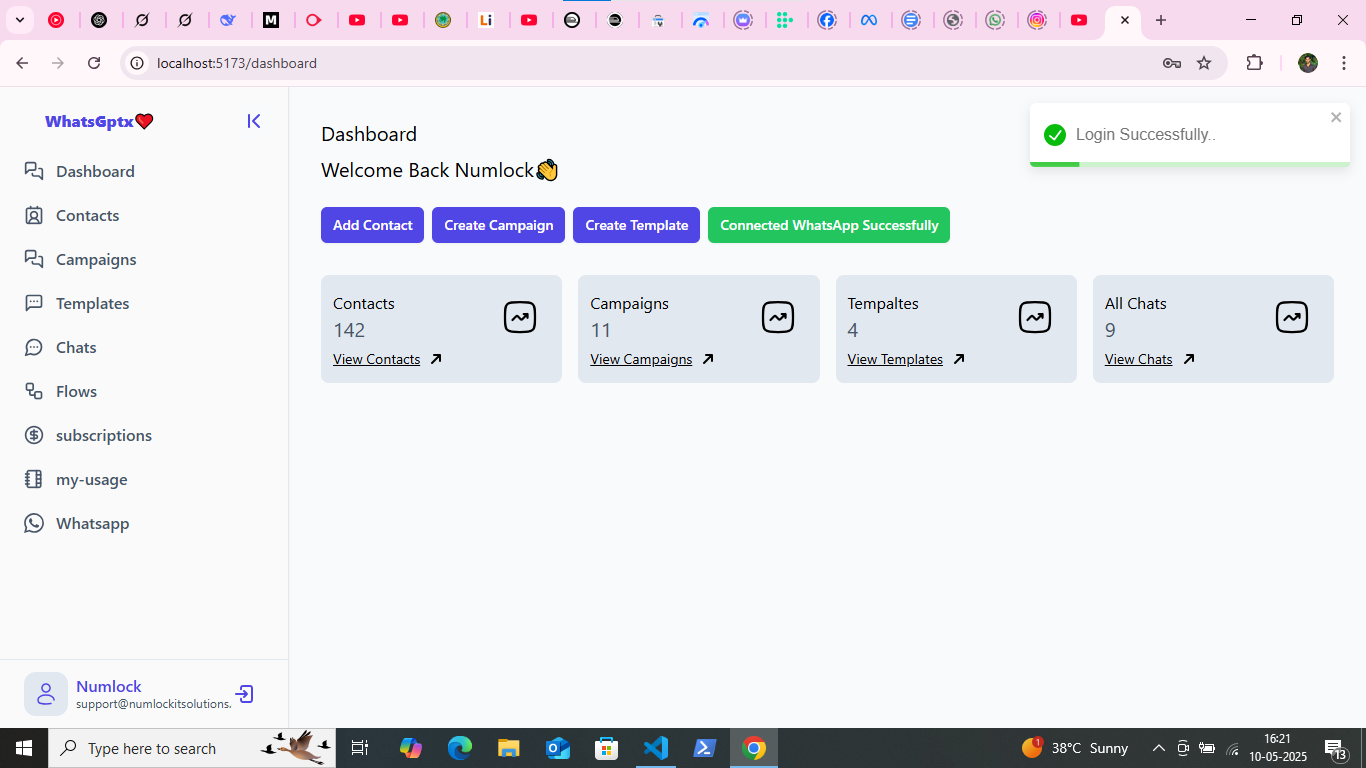
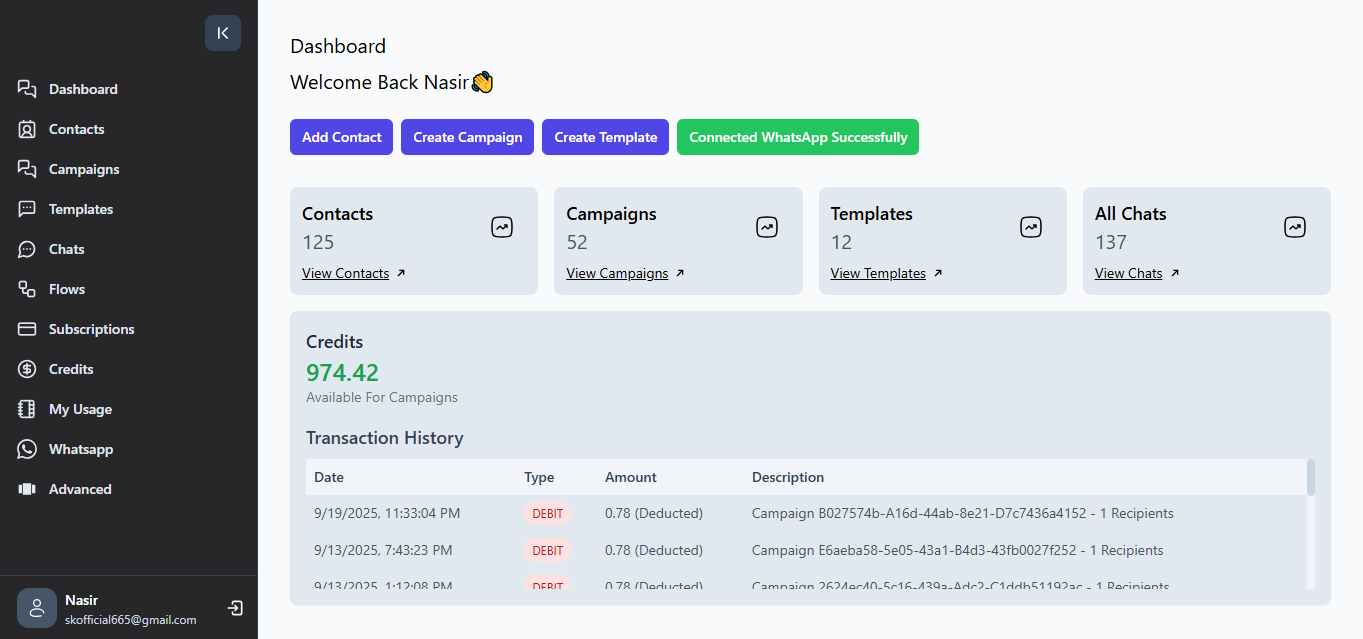
ui chnges

diff --git a/src/components/LandingPage/LandingPage.jsx b/src/components/LandingPage/LandingPage.jsx
@@ -83,7 +83,7 @@ export default function LandingPage() {
             <div className="flex items-center justify-between w-full xl:w-auto mb-2 xl:mb-0">
               <a className="flex items-center w-[7rem] h-5 sm:w-[12rem]" href="/">
               <img src={assest.logo} alt="" />
-                {/* <span className="text-2xl font-bold bg-gradient-to-r from-green-600 to-emerald-500 bg-clip-text text-transparent">Numlockitsolutions</span> */}
+                {/* <span className="text-2xl font-bold bg-gradient-to-r from-green-600 to-emerald-500 bg-clip-text text-transparent">WhatsappGptx</span> */}
               </a>
               <div className="flex xl:hidden items-center gap-2">
                 <button 
@@ -235,10 +235,10 @@ export default function LandingPage() {
             <div className="lg:w-1/2 text-center lg:text-left">
               <p className="text-sm font-semibold text-green-600 tracking-wide uppercase mb-4">AI-POWERED WHATSAPP MARKETING</p>
               <h1 className="text-2xl md:text-3xl lg:text-3xl font-bold mb-6">
-                <span className="block bg-clip-text text-transparent bg-gradient-to-r from-green-600 to-emerald-500 pb-[5px]">Advanced WhatsApp Automation with Numlockitsolutions</span>
+                <span className="block bg-clip-text text-transparent bg-gradient-to-r from-green-600 to-emerald-500 pb-[5px]">Advanced WhatsApp Automation with WhatsappGptx</span>
               </h1>
               <p className="text-lg md:text-xl text-gray-600 mb-8 max-w-2xl mx-auto lg:mx-0">
-                Transform your business communications with Numlockitsolutions's powerful AI-driven WhatsApp Business API solutions.
+                Transform your business communications with WhatsappGptx's powerful AI-driven WhatsApp Business API solutions.
               </p>
               <div className="flex flex-col sm:flex-row gap-4 justify-center lg:justify-start">
                 <a href="/register" className="bg-gradient-to-r from-green-600 to-emerald-500 text-white px-6 py-3 rounded-full text-lg font-semibold hover:opacity-90 transition-opacity inline-flex items-center justify-center">
@@ -263,7 +263,7 @@ export default function LandingPage() {
                 <div className="relative">
                   <img 
                     src={assest.Dashboard}
-                    alt="Numlockitsolutions Dashboard Preview" 
+                    alt="WhatsappGptx Dashboard Preview" 
                     className="relative z-10 rounded-xl shadow-xl border border-gray-200" 
                   />
                 </div>
@@ -299,7 +299,7 @@ export default function LandingPage() {
       </section>
           
       {/* Price Section */}
-      <section id='pricing'>
+      <section id='pricing' className='relative bg-gradient-to-b from-green-50 to-white py-10'>
         <PricingPlans/>
       </section>
 
@@ -321,7 +321,7 @@ export default function LandingPage() {
                 <span className="text-2xl font-bold text-orange-500">+</span>
               </div>
               <h3 className="text-sm font-semibold text-gray-500 mt-2">BUSINESSES</h3>
-              <p className="text-gray-600 mt-2 max-w-xs mx-auto">Trust Numlockitsolutions to grow their customer engagement</p>
+              <p className="text-gray-600 mt-2 max-w-xs mx-auto">Trust WhatsappGptxto grow their customer engagement</p>
             </div>
             <div className="text-center">
               <div className="flex items-center justify-center">
@@ -342,7 +342,7 @@ export default function LandingPage() {
         <div className="container mx-auto px-4">
           <div className="text-center mb-12">
             <h2 className="text-3xl font-bold text-gray-900">Native Integrations</h2>
-            <p className="text-gray-600 mt-4 max-w-2xl mx-auto">Connect Numlockitsolutions with your favorite tools and services</p>
+            <p className="text-gray-600 mt-4 max-w-2xl mx-auto">Connect WhatsappGptxwith your favorite tools and services</p>
           </div>
           
           <div className="grid grid-cols-2 md:grid-cols-4 gap-8 items-center justify-center">
@@ -384,7 +384,7 @@ export default function LandingPage() {
                     <h3 className="text-3xl font-bold text-gray-900">Multi-Agent Chat Inbox</h3>
                   </div>
                   <p className="text-lg text-gray-700 leading-relaxed">
-                    With Numlockitsolutions Connect CRM, you can enable a multi-agent chat system for seamless sales and support. Multiple agents can respond to incoming messages with access control and performance monitoring.
+                    With WhatsappGptxConnect CRM, you can enable a multi-agent chat system for seamless sales and support. Multiple agents can respond to incoming messages with access control and performance monitoring.
                   </p>
                   <ul className="list-disc pl-4 space-y-2">
                     <li className="text-lg text-gray-700">WhatsApp-like interface for seamless communication</li>
@@ -451,7 +451,7 @@ export default function LandingPage() {
           <div className="flex flex-col md:flex-row items-center justify-between max-w-6xl mx-auto gap-6">
             <div className="flex-1 space-y-3">
               <h2 className="text-3xl md:text-4xl font-bold" style={{ lineHeight: '1.2' }}>Ready to transform your WhatsApp marketing?</h2>
-              <p className="text-lg text-green-50 max-w-xl">Join thousands of businesses already growing with Numlockitsolutions</p>
+              <p className="text-lg text-green-50 max-w-xl">Join thousands of businesses already growing with WhatsappGptx</p>
               <div className="flex flex-wrap gap-4 mt-4">
                 <div className="flex items-center text-sm text-green-50">
                   <div className="w-1.5 h-1.5 rounded-full bg-green-400 mr-2"></div>
@@ -465,7 +465,7 @@ export default function LandingPage() {
             </div>
             <div>
               <a className="inline-flex items-center gap-2 bg-white text-[#075E54] px-8 py-4 rounded-full font-semibold text-lg hover:bg-green-50 transition-colors duration-300 shadow-lg hover:shadow-xl" href="/register">
-                Get Started with Numlockitsolutions
+                Get Started with WhatsappGptx
                 <svg xmlns="http://www.w3.org/2000/svg" width="24" height="24" viewBox="0 0 24 24" fill="none" stroke="currentColor" strokeWidth="2" strokeLinecap="round" strokeLinejoin="round" className="lucide lucide-arrow-right w-5 h-5">
                   <path d="M5 12h14"></path>
                   <path d="m12 5 7 7-7 7"></path>
@@ -488,7 +488,7 @@ export default function LandingPage() {
                 <div className="flex items-center w-[7rem] h-5 sm:w-[12rem]">
                  
                   <img src={assest.logo} alt="" />
-                    {/* <span className="text-2xl font-bold bg-gradient-to-r from-green-600 to-emerald-500 bg-clip-text text-transparent">Numlockitsolutions</span> */} 
+                    {/* <span className="text-2xl font-bold bg-gradient-to-r from-green-600 to-emerald-500 bg-clip-text text-transparent">WhatsappGptx</span> */} 
                  
                 </div>
                 <p className="text-gray-600">WhatsApp Business Solution Provider</p>
@@ -568,7 +568,7 @@ export default function LandingPage() {
             
             <div className="border-t border-gray-200/50 pt-8 mt-8 w-full">
               <div className="flex flex-col md:flex-row justify-center items-center space-y-4 md:space-y-0 w-full max-w-6xl">
-                <p className="text-gray-500 text-sm">© {new Date().getFullYear()} Numlockitsolutions. All rights reserved.</p>
+                <p className="text-gray-500 text-sm">© {new Date().getFullYear()} WhatsappGptx. All rights reserved.</p>
               </div>
             </div>
           </div>

diff --git a/src/components/Authentications/Overlay.jsx b/src/components/Authentications/Overlay.jsx
@@ -31,7 +31,7 @@ const Overlay = ({ isRightPanelActive, setIsRightPanelActive }) => {
           <button
             onMouseDown={() => navigate("/login")}
             className="bg-[rgba(225,225,225,0.2)] border-2 cursor-pointer border-white text-white font-bold rounded-2xl uppercase flex items-center
-              px-8 py-2 text-xs sm:px-20 sm:py-3 sm:text-base"
+              px-8 py-2 text-xs sm:px-20 sm:py-3 sm:text-base "
           >
             Login
             <i className="lni lni-arrow-left ml-2 transition-opacity duration-300 opacity-0 hover:opacity-100"></i>

diff --git a/src/components/Authentications/RegisterForm.jsx b/src/components/Authentications/RegisterForm.jsx
@@ -87,7 +87,7 @@ const RegisterForm = ({ isActive }) => {
           </button>
         </div>
 
-        <button type='submit' className="rounded-2xl border cursor-pointer border-[#4bb6b7] bg-[#4bb6b7] text-white font-bold my-2 px-20 py-3 uppercase text-sm sm:text-base">
+        <button type='submit' className="rounded-2xl border cursor-pointer border-[#4bb6b7] bg-[#4bb6b7] text-white font-bold my-2 px-5 py-3 uppercase text-sm sm:text-base">
           Register
         </button>
       </form>

diff --git a/src/components/Authentications/LoginForm.jsx b/src/components/Authentications/LoginForm.jsx
@@ -98,7 +98,7 @@ const LoginForm = ({ isActive }) => {
           </span>
         </div>
 
-        <button type='submit' className="rounded-2xl border cursor-pointer border-[#4bb6b7] bg-[#4bb6b7] text-white font-bold my-2 px-20 py-3 uppercase text-sm sm:text-base">
+        <button type='submit' className="rounded-2xl border cursor-pointer border-[#4bb6b7] bg-[#4bb6b7] text-white font-bold my-2 px-5 py-3 uppercase text-sm sm:text-base">
           Login
         </button>
 

diff --git a/src/components/Dashboard.jsx b/src/components/Dashboard.jsx
@@ -433,7 +433,7 @@ const Dashboard = () => {
                     >
                       {loadingTopUp ? 'Processing...' : 'Top Up'}
                     </button>
-                  </div> */}
+                  </div> */} 
 
                   {/* <div className="flex justify-start sm:justify-end space-x-2 mt-2">
                     {[500, 1000, 2000].map((amount) => (
